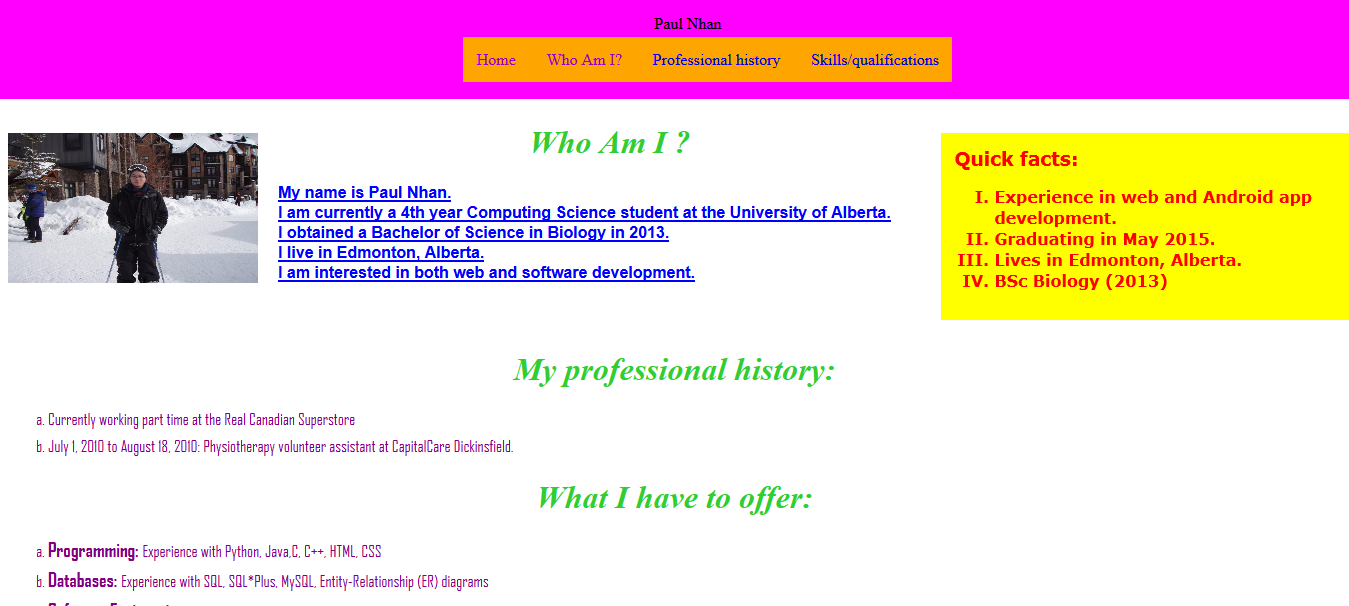
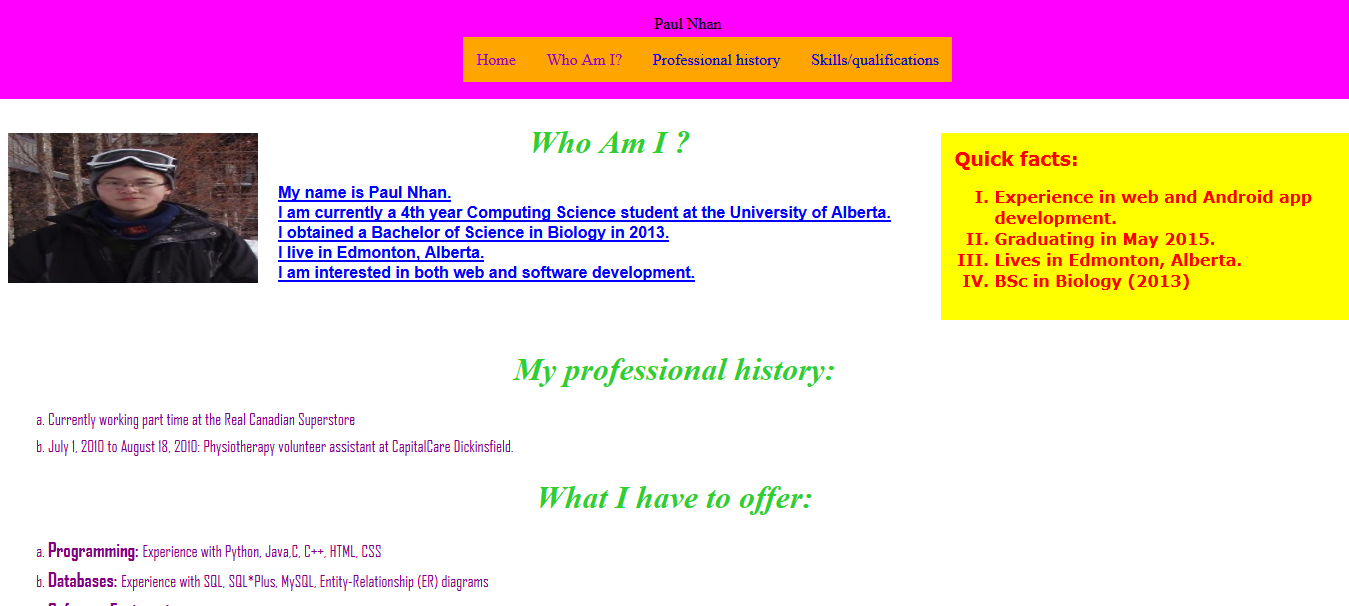
improved webpage look for pnhanGood.html

Changed region(s): [[0.0, 0.2079, 0.2179, 0.4752], [0.7472, 0.4455, 0.9029, 0.4752]]

diff --git a/styles/pnhanGoodCSS.css b/styles/pnhanGoodCSS.css
@@ -4,11 +4,11 @@
 	width:100%;
 	text-align:center;
 	font-family: "Trebuchet MS";
-	font-size: 17pt;
+	font-size: 30pt;
 	position:absolute;
 	background-color: #d34836;
 	color: White;
-	height: 60pt;
+	height: 66pt;
 	position: fixed;
 	z-index: 10;
 }
@@ -26,12 +26,11 @@ h1 {
 	float: left;
 }
 .nav {
-	height: 200pt;
+	height: 170pt;
 	width: 140pt;
 	float:right;
 	padding: 5px;
-	margin-right:-6pt;
-	margin-top: -15pt;
+	margin-top: -10pt;
 	font-family: "Trebuchet MS";
 	clear:both;
 	background-color: #d2d2d2;
@@ -40,21 +39,27 @@ h1 {
 	list-style: square;
 }
 body {
-	margin-top: 100pt;
+	margin-top: 110pt;
+	margin-right: 26pt;
+	margin-left: 26pt;
 }
 .sentences {
 	font-family: "Trebuchet MS";
 	
 }
+
+.menu {
+	margin-top: -2pt;
+}
 .menu  li{
 	display:inline;
-	padding:50pt 50pt 50pt 50pt;
-	font-size: 12pt;
+	padding:60pt 60pt 60pt 60pt;
+	font-size: 14pt;
 }
 
 .image {
-	width:150px;
-	height:150px;
+	width:100pt;
+	height:110pt;
 	margin-right: 20px;
 }
 

diff --git a/pnhanBad.html b/pnhanBad.html
@@ -9,8 +9,8 @@
 	<div class= "header">
 		Paul Nhan
 		<ul class= "menu">
-			<li> <a href= "pnhanGood.html">Home</a></li><li>
-			<a href= "pnhanGood.html">Who Am I?</a></li><li>
+			<li> <a href= "pnhanBad.html">Home</a></li><li>
+			<a href= "pnhanBad.html">Who Am I?</a></li><li>
 			<a href= "#history">Professional history</a></li><li>
 			<a href= "#skills">Skills/qualifications</a></li>
 		</ul>
@@ -22,13 +22,13 @@
 			<li>Experience in web and Android app development. 
 			<li>Graduating in May 2015.
 			<li>Lives in Edmonton, Alberta.
-			<li> BSc Biology (2013)
+			<li> BSc in Biology (2013)
 		</ul>
 			
 	</div>
 	
 	<div class= "content">
-	<img class="image" src= './img/pnhan.jpg'> </br>
+	<img class="image" src= './img/pnhan2.jpg'> </br>
 	</div>
 	
 	

diff --git a/pnhanGood.html b/pnhanGood.html
@@ -22,13 +22,13 @@
 			<li>Experience in web and Android app development. 
 			<li>Graduating in May 2015.
 			<li>Lives in Edmonton, Alberta.
-			<li> BSc Biology (2013)
+			<li> BSc in Biology (2013)
 		</ul>
 			
 	</div>
 	
 	<div class= "content">
-	<img class="image" src= './img/pnhan.jpg'> </br>
+	<img class="image" src= './img/pnhan2.jpg'> </br>
 	</div>
 	
 	
@@ -45,7 +45,7 @@
 	
 	</br>
 	
-	<h1>  <a id= "history"> </a>My professional history: </h1>
+	<h1>  <a id= "history"> </a> My professional history: </h1>
 	<ul class="skill_list">
 		<li> Currently working part time at the Real Canadian Superstore
 		<li> July 1, 2010 to August 18, 2010: Physiotherapy volunteer assistant at CapitalCare Dickinsfield.

diff --git a/jsurya - good.html b/jsurya - good.html
@@ -8,7 +8,7 @@
 
 <div class= "header">
 <ul class= "menu">
-<li> <a href= "jsurya.html">Home</a></li><li>
+<li> <a href= "jsurya - good.html">Home</a></li><li>
 <a href= "#about">About</a></li><li>
 <a href= "#history">Professional History</a></li><li>
 <a href= "#skills">Skills/Qualifications</a></li>

diff --git a/jsurya - bad.html b/jsurya - bad.html
@@ -8,7 +8,7 @@
 
 <div class= "header">
 <ul class= "menu">
-<li> <a href= "jsurya.html">Home</a></li><li>
+<li> <a href= "jsurya - bad.html">Home</a></li><li>
 <a href= "#about">About</a></li><li>
 <a href= "#history">Professional History</a></li><li>
 <a href= "#skills">Skills/Qualifications</a></li>
